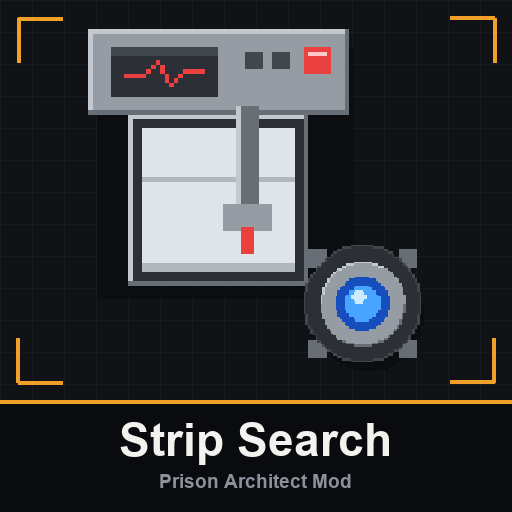
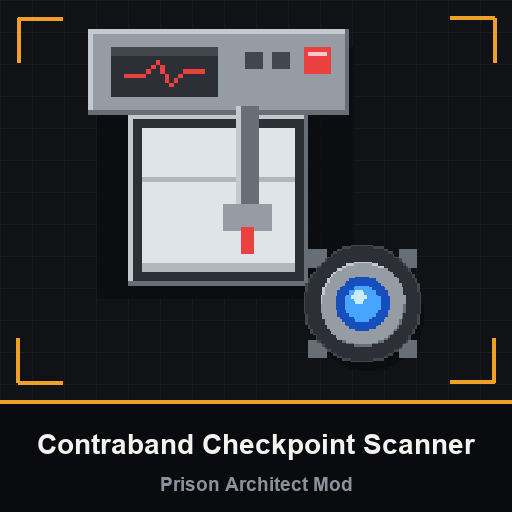
Rename the mod to Contraband Checkpoint Scanner
The name in the manifest, the README's title, the card and the headers of the
generator and the scripts. The room it adds is still called Strip Search.

Changed region(s): [[0.0625, 0.8125, 0.9375, 0.9688]]

diff --git a/tools/card.py b/tools/card.py
@@ -85,18 +85,22 @@ def face(size):
     return ImageFont.load_default(size)
 
 
-def text(label, size, colour, widest):
-    """A line of text, set smaller if it would run wider than widest."""
+def fitting(label, size, widest):
+    """The face to set a line in: smaller if it would run wider than widest."""
     probe = ImageDraw.Draw(Image.new("L", (1, 1)))
     while True:
         font = face(size)
-        left, top, right, bottom = probe.textbbox((0, 0), label, font=font)
+        left, _, right, _ = probe.textbbox((0, 0), label, font=font)
         if right - left <= widest or size <= 12:
-            break
+            return font
         size -= 2
-    line = Image.new("RGBA", (right - left + 4, bottom - top + 4), (0, 0, 0, 0))
-    ImageDraw.Draw(line).text((2 - left, 2 - top), label, font=font, fill=colour)
-    return line
+
+
+def line(draw, label, font, colour, middle):
+    """Sets a line so its capitals are centred on middle, whatever its size
+    and whether or not it has letters that hang below the line."""
+    _, top, _, bottom = font.getbbox("H", anchor="ls")
+    draw.text((SIZE // 2, middle + (bottom - top) // 2), label, font=font, fill=colour, anchor="ms")
 
 
 def brackets(draw):
@@ -123,10 +127,9 @@ def frame(art, name):
     brackets(draw)
     draw.rectangle([0, BAND_TOP, SIZE, SIZE], fill=BAND)
     draw.rectangle([0, BAND_TOP, SIZE, BAND_TOP + LINE - 1], fill=ACCENT)
-    title = text(name, TITLE_SIZE, TITLE, SIZE - 56)
-    card.alpha_composite(title, ((SIZE - title.width) // 2, BAND_TOP + 20))
-    sub = text(GAME, SUBTITLE_SIZE, SUBTITLE, SIZE - 56)
-    card.alpha_composite(sub, ((SIZE - sub.width) // 2, SIZE - 40))
+    draw = ImageDraw.Draw(card)
+    line(draw, name, fitting(name, TITLE_SIZE, SIZE - 56), TITLE, BAND_TOP + 44)
+    line(draw, GAME, fitting(GAME, SUBTITLE_SIZE, SIZE - 56), SUBTITLE, SIZE - 28)
     return card.convert("RGB")
 
 

diff --git a/tools/gen_assets.py b/tools/gen_assets.py
@@ -1,4 +1,4 @@
-"""Builds every generated file the Strip Search mod ships.
+"""Builds every generated file the Contraband Checkpoint Scanner mod ships.
 
 Outputs, relative to the mod root (the parent of this tools/ folder):
   data/sprites.png                  the Medical Probe Machine's two frames and the Room Scanner

diff --git a/README.md b/README.md
@@ -1,4 +1,4 @@
-# Strip Search
+# Contraband Checkpoint Scanner
 
 A Prison Architect mod. Anyone who steps into a Strip Search room is
 searched by a guard before they can leave it.
